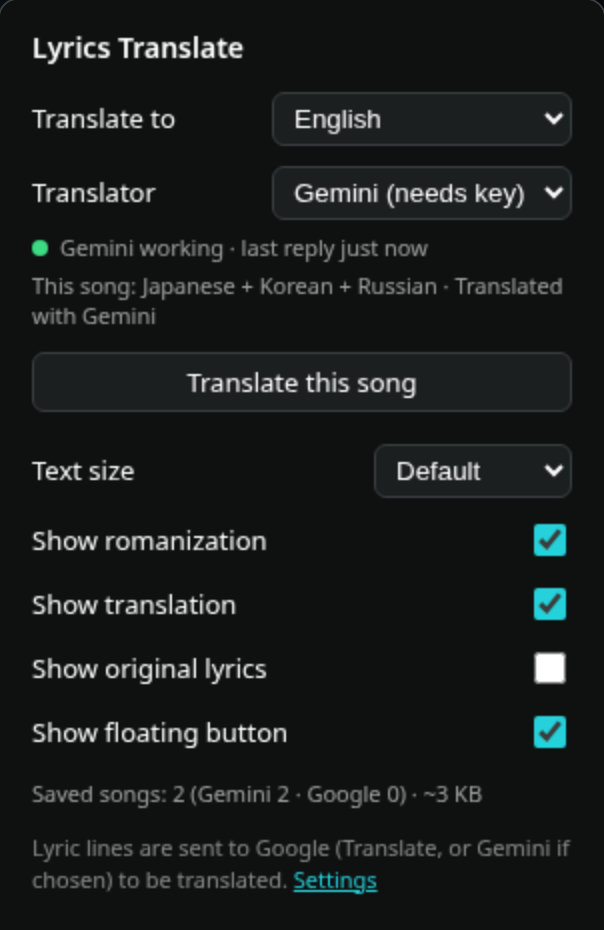
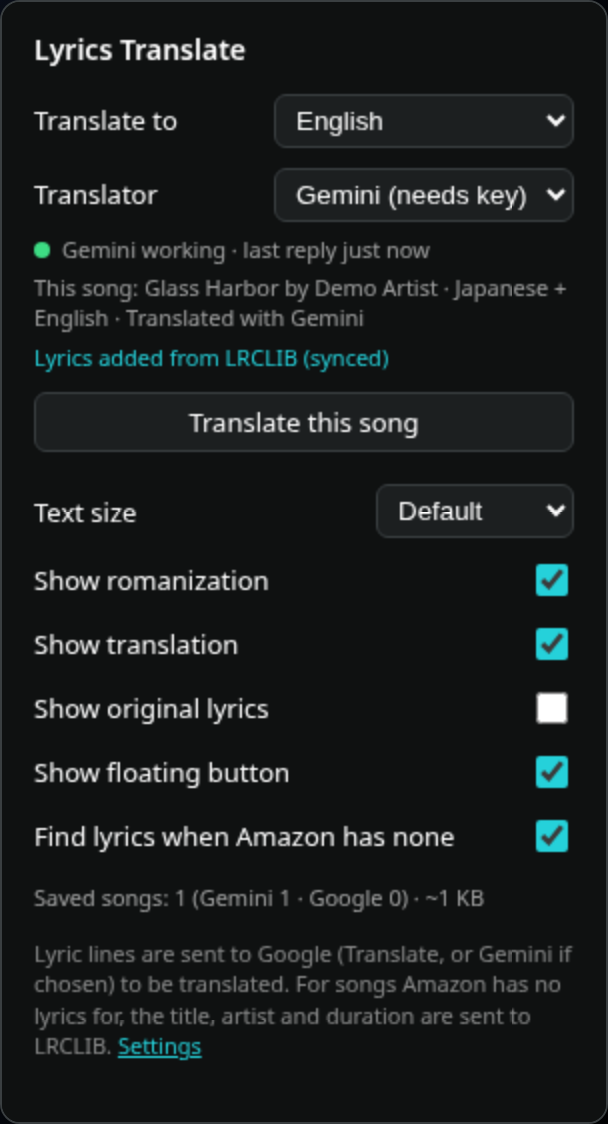
Docs and site for 1.3: LRCLIB lyrics for songs Amazon doesn't have, smarter language check
- Site: 'New in 1.3' pill, feature card and screenshot section for LRCLIB lyrics in the full view (synced highlight),
  'Smarter language check' card, What's new section (1.3.0-1.3.3), refreshed popup screenshot with the new toggle,
  privacy cards incl. LRCLIB, Chrome note for Load unpacked, mobile header/pill fixes.
- New screenshot docs/img/6-lrclib-fullview.png rendered from the local mock with invented lyrics only.
- README: LRCLIB intro and screenshot, Changelog section, Chrome load-unpacked note, privacy wording.
- PRIVACY.md / privacy.html: last updated September 28, 2026; LRCLIB receives only title, artist and duration,
  no personal data, can be switched off; LRCLIB lyrics are translated like Amazon's; table scrolls on mobile.

diff --git a/docs/index.html b/docs/index.html
@@ -4,7 +4,7 @@
 <meta charset="utf-8">
 <meta name="viewport" content="width=device-width, initial-scale=1">
 <title>Lyrics Translate &amp; Romanize for Amazon Music: Microsoft Edge extension</title>
-<meta name="description" content="A free Microsoft Edge extension that translates the lyrics in the Amazon Music web player and adds romanization for non-Latin scripts. Not affiliated with Amazon.">
+<meta name="description" content="A free Microsoft Edge extension that translates the lyrics in the Amazon Music web player and adds romanization for non-Latin scripts. For songs Amazon has no lyrics for, it can show synced lyrics from LRCLIB. Not affiliated with Amazon.">
 <link rel="icon" href="img/icon.png">
 <link rel="stylesheet" href="style.css">
 </head>
@@ -14,6 +14,7 @@
     <a class="brand" href="#"><img src="img/icon.png" alt="">Lyrics Translate</a>
     <nav>
       <a href="#features">Features</a>
+      <a href="#new" class="hide-s">What's new</a>
       <a href="#popup" class="hide-s">Popup</a>
       <a href="#privacy" class="hide-s">Privacy</a>
       <a href="#install">Install</a>
@@ -24,8 +25,9 @@
 
 <div class="hero">
   <div class="wrap">
+    <a class="pill" href="#lyrics-when-amazon-has-none"><b>New in 1.3</b> Lyrics for songs Amazon doesn't have &rarr;</a>
     <h1>Every lyric in <span>your language</span>,<br>in any script</h1>
-    <p class="lead">Lyrics Translate &amp; Romanize for Amazon Music is a free Microsoft Edge extension. It translates the lyrics in the Amazon Music web player (music.amazon.com) as they scroll, and adds an easy-to-read romanization under lines written in Japanese, Korean, Chinese, Cyrillic, Arabic, Hindi, Thai, Greek, Hebrew and other non-Latin scripts.</p>
+    <p class="lead">Lyrics Translate &amp; Romanize for Amazon Music is a free Microsoft Edge extension. It translates the lyrics in the Amazon Music web player (music.amazon.com) as they scroll, and adds an easy-to-read romanization under lines written in Japanese, Korean, Chinese, Cyrillic, Arabic, Hindi, Thai, Greek, Hebrew and other non-Latin scripts. And when Amazon has no lyrics for a song, it finds synced lyrics on LRCLIB and shows them in the full view, right where Amazon's own lyrics would be.</p>
     <div class="buttons">
       <a class="btn primary" href="https://microsoftedge.microsoft.com/addons/detail/lyrics-translate-romanize-for-amazon-music/jjfhmmdjbkcamelimddcogoopaljflff">Get it on Microsoft Edge Add-ons</a>
       <a class="btn" href="https://github.com/NoodlesNom/lyrics-translate-for-amazon-music/releases/latest">Download ZIP (load unpacked)</a>
@@ -41,6 +43,8 @@
     <h2>Features</h2>
     <p class="sub">Everything happens inside the lyrics view you already use. Open a song's lyrics in the Amazon Music web player and the extension does the rest.</p>
     <div class="grid">
+      <div class="card new"><div class="icon">♪</div><span class="tag">New in 1.3</span><h3>Lyrics for songs Amazon doesn't have</h3>
+        <p>No lyrics on Amazon? The extension looks the song up on <a href="https://lrclib.net">LRCLIB</a>, a free, open lyrics database, and shows the lyrics in Amazon's full view, in the same spot and style as Amazon's own, with the current line highlighted as the song plays. Translated and romanized too.</p></div>
       <div class="card"><div class="icon">G</div><h3>Gemini or Google Translate</h3>
         <p>Use the free Google Translate web service with no key or account, or paste your own free Gemini API key for natural translations that use the whole song as context. The key is saved only in your browser.</p></div>
       <div class="card"><div class="icon">⇄</div><h3>Automatic fallback</h3>
@@ -53,28 +57,52 @@
         <p>A small round button in the top-right corner of the player opens the popup as a panel right on the page. Click outside it or press <kbd>Esc</kbd> to close it, or hide the button in the popup.</p></div>
       <div class="card"><div class="icon">⟳</div><h3>Per-song cache</h3>
         <p>Results are saved per song, translator and language: up to 2000 songs (400 lines each). Replays are instant and make no requests. When the cache is full, the least recently played songs are removed first.</p></div>
-      <div class="card"><div class="icon">✓</div><h3>Skips songs already in your language</h3>
-        <p>Lines already in your target language stay as they are. A Latin-script song is language-checked with Google first, so an English song with English selected never uses your Gemini quota, now or on replays.</p></div>
+      <div class="card"><div class="icon">✓</div><span class="tag">Improved in 1.3</span><h3>Smarter language check</h3>
+        <p>Songs already in your language are left alone and never go to Gemini, even if the lyrics contain symbols, emoji or a stray look-alike letter from another alphabet. A mostly English song with a few lines in another language only gets those few lines translated.</p></div>
       <div class="card"><div class="icon">↻</div><h3>"Translate this song"</h3>
         <p>If a mixed-language song was left partly untranslated, one click translates the whole song again with the selected translator and remembers not to skip it next time.</p></div>
       <div class="card"><div class="icon">A+</div><h3>Text size</h3>
         <p>Scale all the lyric text the extension shows from 85% to 145% (Small, Default, Large, Extra large) without zooming the rest of the player, so auto-scrolling keeps working.</p></div>
     </div>
 
-    <div class="split">
+    <div class="split" id="lyrics-when-amazon-has-none">
+      <div class="media"><img src="img/6-lrclib-fullview.png" width="1280" height="720" alt="A full-screen player on a demo page: album art on the left, and on the right synced lyrics from LRCLIB with the current line highlighted in white, each invented Japanese line shown as an English translation with romaji underneath."></div>
+      <div><span class="tag">New in 1.3</span><h3>Lyrics for songs Amazon doesn't have</h3>
+        <p>Some songs have no lyrics on Amazon Music. When that happens, the extension finds <b>synced lyrics</b> on <a href="https://lrclib.net">LRCLIB</a> and shows them in the <b>full view</b>, in the same place and style as Amazon's own lyrics.</p>
+        <ul class="ticks">
+          <li>The current line is highlighted and follows playback, seeks and pauses.</li>
+          <li>Translation and romanization work just like on Amazon's lyrics.</li>
+          <li>The popup's <b>This song</b> line shows the title, artist and where the lyrics came from.</li>
+          <li>Only the song's title, artist and duration are sent to lrclib.net. Turn it off anytime with <b>Find lyrics when Amazon has none</b>.</li>
+        </ul></div>
+    </div>
+    <div class="split rev">
       <div class="media"><img src="img/2-romanization.png" width="1280" height="800" alt="Invented Japanese lyric lines shown with romaji underneath and an English translation, at the Large text size."></div>
       <div><h3>Read along in any script</h3>
         <p>Can't read the script? Follow the romanization line as the song plays. Here three invented Japanese lines keep the original as the main line, with romaji and the English translation underneath, at the <b>Large</b> text size.</p></div>
     </div>
-    <div class="split rev">
+    <div class="split">
       <div class="media"><img src="img/5-original-toggle.png" width="1280" height="800" alt="Invented Chinese, Greek, Hebrew and Thai lines with the original shown as the main line and romanization plus translation underneath."></div>
       <div><h3>Original lyrics, when you want them</h3>
         <p>With <b>Original lyrics</b> on, the original stays the big line. Songs that mix scripts are handled line by line: each line gets its own romanization and translation, and lines already in your language are left alone.</p></div>
     </div>
-    <div class="split">
+    <div class="split rev">
       <div class="media"><img src="img/4-floating-panel.png" width="1280" height="800" alt="The floating button in the top-right corner has opened the settings panel on the page, next to translated demo lyrics."></div>
       <div><h3>Settings without leaving the player</h3>
         <p>The floating button opens the full popup as an in-page panel, handy in full-screen or when the toolbar is hidden. It's the same popup, with the same live status lines.</p></div>
+    </div>
+  </div>
+</section>
+
+<section id="new">
+  <div class="wrap">
+    <h2>What's new</h2>
+    <p class="sub">Recent versions, newest first. Full history and downloads in the <a href="https://github.com/NoodlesNom/lyrics-translate-for-amazon-music/releases">releases</a>.</p>
+    <div class="changelog">
+      <div class="card"><h3>1.3.3</h3><p>Smarter language check: songs already in your language never go to Gemini, even with look-alike characters, and mostly English songs only get their few foreign lines translated.</p></div>
+      <div class="card"><h3>1.3.2</h3><p>Lyrics from LRCLIB now appear in Amazon's full view, in the same spot and style as Amazon's own lyrics, with the current line highlighted.</p></div>
+      <div class="card"><h3>1.3.1</h3><p>More reliable detection of songs Amazon has no lyrics for, using the player bar's "Lyrics available" badge.</p></div>
+      <div class="card"><h3>1.3.0</h3><p>New: synced lyrics from LRCLIB for songs Amazon has no lyrics for, translated and romanized, following playback, seeks and pauses. Popup toggle <b>Find lyrics when Amazon has none</b> (on by default).</p></div>
     </div>
   </div>
 </section>
@@ -84,15 +112,15 @@
     <h2>The popup</h2>
     <p class="sub">Click the toolbar icon (or the floating button). Changes apply immediately to the open lyrics.</p>
     <div class="popup-wrap">
-      <div class="popup-img"><img src="img/popup.png" width="604" height="1000" alt="The extension popup: target language, translator, Gemini status, this song's status, Translate this song button, text size, toggles and the saved-songs counter."></div>
+      <div class="popup-img"><img src="img/popup.png" width="608" height="1124" alt="The extension popup: target language, translator, Gemini status, this song's title, artist and status, a note that the lyrics were added from LRCLIB, the Translate this song button, text size, toggles including Find lyrics when Amazon has none, and the saved-songs counter."></div>
       <dl class="controls">
         <dt>Translate to</dt><dd>Target language: 23 languages, including English, Spanish, French, German, Japanese, Korean, Chinese (Simplified and Traditional), Arabic, Hindi and more.</dd>
         <dt>Translator</dt><dd><b>Gemini (needs key)</b> or <b>Google Translate</b>. Gemini is picked automatically once you save a key.</dd>
         <dt>Gemini status dot</dt><dd><span class="dot g"></span>Gemini working, last reply 2 min ago · <span class="dot a"></span>Using Google (quota hit, timed out, error or unexpected reply) · <span class="dot r"></span>Invalid key · <span class="dot n"></span>No key, not used yet, or Google selected.</dd>
-        <dt>This song</dt><dd>The current song's detected language(s) and state, for example "Japanese + English · Translated with Gemini (from cache)", "English · Already in English, no translation needed" or "Translating…".</dd>
+        <dt>This song</dt><dd>The current song's title and artist, its detected language(s) and state, for example "Japanese + English · Translated with Gemini (from cache)", "English · Already in English, no translation needed" or "Translating…". For songs Amazon has no lyrics for, a second line says where the lyrics came from: "Lyrics added from LRCLIB (synced)", or "Amazon has no lyrics; none found on LRCLIB".</dd>
         <dt>Translate this song</dt><dd>Translates the open song again with the selected translator and stops it being skipped.</dd>
         <dt>Text size</dt><dd>Small (85%), Default, Large (120%) or Extra large (145%).</dd>
-        <dt>Toggles</dt><dd>Show romanization, Show translation, Show original lyrics, Show floating button, Find lyrics when Amazon has none.</dd>
+        <dt>Toggles</dt><dd>Show romanization, Show translation, Show original lyrics, Show floating button, and <b>Find lyrics when Amazon has none</b> (on by default; turn it off and nothing is ever sent to LRCLIB).</dd>
         <dt>Saved songs</dt><dd>For example "Saved songs: 12 (Gemini 8 · Google 6) · ~0.3 MB": how many songs are cached, how many are fully translated by each translator, and roughly how much storage is used.</dd>
         <dt>Settings</dt><dd>Opens the settings page, where you save, test or remove your Gemini key.</dd>
       </dl>
@@ -115,10 +143,11 @@
 <section id="privacy">
   <div class="wrap">
     <h2>Privacy</h2>
-    <div class="grid">
+    <div class="grid four">
       <div class="card"><h3>No data collection</h3><p>The developer collects nothing. There are no analytics, no trackers, no accounts and no servers of our own.</p></div>
-      <div class="card"><h3>What is sent, and where</h3><p>Only the lyric lines on screen are sent to Google Translate, and to Google Gemini if you added your own key, only to translate or romanize them. For songs Amazon has no lyrics for, the title, artist and duration are sent to LRCLIB (lrclib.net) to find lyrics. No cookies, song history or other data.</p></div>
-      <div class="card"><h3>Stored in your browser</h3><p>Your Gemini key and the translation cache stay in local extension storage; your settings are in sync storage. Removing the extension clears them.</p></div>
+      <div class="card"><h3>What is sent, and where</h3><p>Only the lyric lines on screen are sent to Google Translate, and to Google Gemini if you added your own key, only to translate or romanize them. No cookies, song history or other data.</p></div>
+      <div class="card"><h3>LRCLIB, only when needed</h3><p>Only for songs Amazon has no lyrics for, the song's title, artist and duration are sent to <a href="https://lrclib.net">lrclib.net</a> to find lyrics. No personal data, no account. Switch it off with <b>Find lyrics when Amazon has none</b>.</p></div>
+      <div class="card"><h3>Stored in your browser</h3><p>Your Gemini key, the translation cache and the LRCLIB lyrics cache stay in local extension storage; your settings are in sync storage. Removing the extension clears them.</p></div>
     </div>
     <p style="margin-top:20px"><a href="privacy.html">Read the full privacy policy</a></p>
   </div>
@@ -131,10 +160,10 @@
       <div class="card"><h3>From Microsoft Edge Add-ons</h3>
         <p>The easiest way: install it from the official store with one click, and Edge keeps it updated automatically.</p>
         <p style="margin-top:14px"><a class="btn primary" href="https://microsoftedge.microsoft.com/addons/detail/lyrics-translate-romanize-for-amazon-music/jjfhmmdjbkcamelimddcogoopaljflff">Get it on Microsoft Edge Add-ons</a></p></div>
-      <div class="card"><h3>Load unpacked (alternative)</h3>
+      <div class="card"><h3>Load unpacked (Chrome and other browsers)</h3>
         <ol class="steps">
           <li>Download the ZIP from the <a href="https://github.com/NoodlesNom/lyrics-translate-for-amazon-music/releases/latest">latest release</a> and unzip it (or clone the repo and use its <code>extension</code> folder).</li>
-          <li>Open <code>edge://extensions</code>.</li>
+          <li>Open <code>edge://extensions</code> (in Chrome: <code>chrome://extensions</code>).</li>
           <li>Turn on <b>Developer mode</b>.</li>
           <li>Click <b>Load unpacked</b> and pick the folder that contains <code>manifest.json</code>.</li>
           <li>Open <a href="https://music.amazon.com">music.amazon.com</a>, play a song and open the lyrics view.</li>
@@ -146,7 +175,7 @@
 
 <section>
   <div class="wrap">
-    <p class="disclaimer"><b>Not affiliated with Amazon.</b> This is an independent, unofficial extension. It is not made, endorsed or supported by Amazon. Amazon Music is a trademark of Amazon.com, Inc. or its affiliates. Google Translate and Gemini are trademarks of Google LLC.</p>
+    <p class="disclaimer"><b>Not affiliated with Amazon.</b> This is an independent, unofficial extension. It is not made, endorsed or supported by Amazon. Amazon Music is a trademark of Amazon.com, Inc. or its affiliates. Google Translate and Gemini are trademarks of Google LLC. Lyrics for songs Amazon has none for come from LRCLIB, an independent community project.</p>
   </div>
 </section>
 

diff --git a/docs/privacy.html b/docs/privacy.html
@@ -18,15 +18,15 @@
 </header>
 <main class="doc">
   <h1>Privacy Policy</h1>
-  <p class="note">Lyrics Translate &amp; Romanize for Amazon Music · Effective date: September 28, 2026</p>
+  <p class="note">Lyrics Translate &amp; Romanize for Amazon Music · Effective date: September 28, 2026 · Last updated: September 28, 2026</p>
   <p>This policy covers the Microsoft Edge extension "Lyrics Translate &amp; Romanize for Amazon Music" (the "extension"), published by NoodlesNom. The extension is not affiliated with Amazon.</p>
 
   <h2>Summary</h2>
   <ul>
     <li><b>The developer collects no data.</b> There are no analytics, no trackers, no advertising, no accounts and no servers run by the developer. Nothing is ever sent to the developer.</li>
     <li><b>Lyric lines are sent to Google only to translate or romanize them.</b> The lyric lines shown on screen in the Amazon Music web player go to Google Translate, and to Google Gemini if you added your own API key.</li>
-    <li><b>For songs Amazon has no lyrics for, the song's title, artist and duration are sent to LRCLIB</b> (lrclib.net), a free lyrics database, to find lyrics for them. You can turn this off in the popup ("Find lyrics when Amazon has none").</li>
-    <li><b>Everything else stays in your browser.</b> Your Gemini key and the translation cache are kept in the extension's local storage, and your settings in the extension's sync storage. Removing the extension clears them.</li>
+    <li><b>For songs Amazon has no lyrics for, the song's title, artist and duration are sent to LRCLIB</b> (lrclib.net), a free, open lyrics database that needs no account or key, to find lyrics for them. Nothing else is sent to LRCLIB: no personal data, no cookies, no account or listening history. This is on by default and you can turn it off in the popup ("Find lyrics when Amazon has none"); when it's off, nothing is ever sent to LRCLIB.</li>
+    <li><b>Everything else stays in your browser.</b> Your Gemini key, the translation cache and the LRCLIB lyrics cache are kept in the extension's local storage, and your settings in the extension's sync storage. Removing the extension clears them.</li>
   </ul>
 
   <h2>What the extension reads</h2>
@@ -39,13 +39,13 @@
   <p>It does not read cookies, your account, your listening history, or any other site.</p>
 
   <h2>What is sent, to whom, and why</h2>
-  <table>
+  <div class="table-wrap"><table>
     <tr><th>Recipient</th><th>What is sent</th><th>When</th><th>Why</th></tr>
     <tr><td>Google Translate (<code>clients5.google.com</code>, fallback <code>translate.googleapis.com</code>)</td><td>The lyric lines on screen and the target language code</td><td>When a song's lyrics are shown and aren't in the cache yet</td><td>To translate the lines, detect their language and romanize non-Latin lines</td></tr>
     <tr><td>Google Gemini API (<code>generativelanguage.googleapis.com</code>)</td><td>The song's lyric lines, the target language, and <b>your own</b> API key (in a request header)</td><td>Only if you saved a Gemini key and Gemini is selected, and the song isn't already in your target language</td><td>To translate the lines</td></tr>
     <tr><td>LRCLIB (<code>lrclib.net</code>)</td><td>The song's <b>title, artist and duration</b> (in seconds), plus a header naming the extension (<code>Lrclib-Client</code>)</td><td>Only when Amazon Music shows no lyrics for the song, "Find lyrics when Amazon has none" is on (default), and the song isn't already in the cache</td><td>To find the song's lyrics (synced if available)</td></tr>
-  </table>
-  <p>Requests are made without cookies. Apart from the title, artist and duration sent to LRCLIB as described above, no song titles, artist names, history, identifiers or other personal data are sent. LRCLIB is an independent third-party service; see <a href="https://lrclib.net">lrclib.net</a>. Google processes its requests under its own terms and privacy policy (<a href="https://policies.google.com/privacy">Google Privacy Policy</a>, <a href="https://ai.google.dev/gemini-api/terms">Gemini API Additional Terms</a>). On Gemini's free tier, Google may use submitted content to improve its products.</p>
+  </table></div>
+  <p>Requests are made without cookies. Apart from the title, artist and duration sent to LRCLIB as described above, no song titles, artist names, history, identifiers or other personal data are sent. Lyrics found on LRCLIB are shown in Amazon's full view and, like Amazon's own lyrics, their lines are sent to Google Translate (or Gemini) only to translate or romanize them. LRCLIB is an independent third-party service; see <a href="https://lrclib.net">lrclib.net</a>. Google processes its requests under its own terms and privacy policy (<a href="https://policies.google.com/privacy">Google Privacy Policy</a>, <a href="https://ai.google.dev/gemini-api/terms">Gemini API Additional Terms</a>). On Gemini's free tier, Google may use submitted content to improve its products.</p>
 
   <h2>What is stored, and where</h2>
   <p>All storage is the browser's own extension storage (<code>chrome.storage</code>). The developer can't access it.</p>

diff --git a/docs/style.css b/docs/style.css
@@ -56,10 +56,30 @@ footer a { color: var(--muted); }
 .doc h1 { font-size: 36px; margin: 0 0 6px; }
 .doc h2 { font-size: 22px; margin: 34px 0 8px; }
 .doc p, .doc li { color: #cdd6da; }
+.pill { display: inline-flex; align-items: center; gap: 8px; margin-bottom: 20px; padding: 5px 14px 5px 5px; border-radius: 999px; border: 1px solid rgba(37, 209, 218, .35); background: rgba(37, 209, 218, .08); color: var(--text); text-decoration: none; font-size: 14px; }
+.pill b { white-space: nowrap; flex: none; background: var(--accent); color: #062326; border-radius: 999px; padding: 2px 10px; font-size: 12px; }
+.pill:hover { border-color: var(--accent); }
+.tag { display: inline-block; vertical-align: middle; margin-left: 6px; padding: 1px 8px; border-radius: 999px; background: rgba(37, 209, 218, .16); color: var(--accent); font-size: 11px; font-weight: 700; letter-spacing: .04em; text-transform: uppercase; }
+.split .tag { margin: 0 0 10px; }
+.card { position: relative; }
+.card .icon + .tag { position: absolute; top: 28px; right: 22px; margin: 0; }
+.grid > .card.new { grid-column: 1 / -1; }
+.grid.four { grid-template-columns: repeat(auto-fit, minmax(230px, 1fr)); }
+.doc .table-wrap { overflow-x: auto; }
+.card.new { border-color: rgba(37, 209, 218, .45); background: linear-gradient(160deg, rgba(37, 209, 218, .10), var(--panel) 60%); }
+ul.ticks { list-style: none; padding: 0; margin: 14px 0 0; }
+ul.ticks li { position: relative; padding-left: 26px; margin: 8px 0; }
+ul.ticks li::before { content: "✓"; position: absolute; left: 0; top: 0; color: var(--accent); font-weight: 700; }
+.changelog { display: grid; grid-template-columns: repeat(auto-fit, minmax(240px, 1fr)); gap: 18px; }
+.changelog .card h3 { font-size: 20px; }
 @media (max-width: 860px) {
   .split, .split.rev, .popup-wrap { grid-template-columns: 1fr; }
   .split.rev .media { order: 0; }
   dl.controls { grid-template-columns: 1fr; gap: 2px; } dl.controls dd { margin-bottom: 10px; }
   nav a { margin-left: 12px; }
 }
-@media (max-width: 560px) { nav a.hide-s { display: none; } }
+@media (max-width: 560px) {
+  nav a.hide-s { display: none; }
+  .brand { white-space: nowrap; } nav { white-space: nowrap; } nav a { margin-left: 10px; font-size: 14px; }
+  .pill { font-size: 12px; border-radius: 16px; }
+}

diff --git a/README.md b/README.md
@@ -1,6 +1,6 @@
 # Lyrics Translate & Romanize for Amazon Music
 
-A free Microsoft Edge extension (Manifest V3, plain JS/HTML/CSS) that translates the lyrics in the Amazon Music web player ([music.amazon.com](https://music.amazon.com)) and adds romanization for non-Latin scripts.
+A free Microsoft Edge extension (Manifest V3, plain JS/HTML/CSS) that translates the lyrics in the Amazon Music web player ([music.amazon.com](https://music.amazon.com)) and adds romanization for non-Latin scripts. When Amazon has no lyrics for a song, it finds synced lyrics on [LRCLIB](https://lrclib.net) and shows them in Amazon's full view.
 
 > **Not affiliated with Amazon.** This is an independent, unofficial extension. It is not made, endorsed or supported by Amazon. Amazon Music is a trademark of Amazon.com, Inc. or its affiliates.
 
@@ -21,16 +21,30 @@ A free Microsoft Edge extension (Manifest V3, plain JS/HTML/CSS) that translates
 - **Skips songs already in your language**, so an English song with English selected never uses your Gemini quota. Since 1.3.3 this also holds when the lyrics contain symbols or a stray look-alike letter (e.g. a Cyrillic "е" typed into an English word), and a mostly English song with a few lines in another script (e.g. a Japanese phrase) only sends those lines to the translator.
 - **Lyrics when Amazon has none (new in 1.3.0):** if Amazon Music has no lyrics for the current song (no "LYRICS" badge next to the title in the player bar, and an empty lyrics area in the full view), they're looked up on [LRCLIB](https://lrclib.net) (free, open lyrics database) and shown in Amazon's full view, right where Amazon's own lyrics would appear and styled like them (since 1.3.2), with the current line highlighted in sync with playback, translated and romanized like Amazon's own lyrics. The popup shows "Lyrics added from LRCLIB (synced/unsynced)" (with "· open the full view to see them" while it's closed) or "Amazon has no lyrics; none found on LRCLIB". Only close matches (same title and artist, duration within 3 s) are used. Toggle: **Find lyrics when Amazon has none** (on by default).
 
+![Synced lyrics from LRCLIB in the full view of a demo page, with invented lines](docs/img/6-lrclib-fullview.png)
+
 ## Install
 
 - **Microsoft Edge Add-ons (recommended):** [install from the store](https://microsoftedge.microsoft.com/addons/detail/lyrics-translate-romanize-for-amazon-music/jjfhmmdjbkcamelimddcogoopaljflff).
-- **Load unpacked:** download the ZIP from the [latest release](https://github.com/NoodlesNom/lyrics-translate-for-amazon-music/releases/latest) (or clone this repo), open `edge://extensions`, turn on **Developer mode**, click **Load unpacked** and select the folder that contains `manifest.json` (the [`extension`](extension) folder in this repo).
+- **Load unpacked:** download the ZIP from the [latest release](https://github.com/NoodlesNom/lyrics-translate-for-amazon-music/releases/latest) (or clone this repo), open `edge://extensions`, turn on **Developer mode**, click **Load unpacked** and select the folder that contains `manifest.json` (the [`extension`](extension) folder in this repo). The same works in Chrome and other Chromium browsers at `chrome://extensions`.
 
 Full usage notes, the Gemini setup and known limits are in [extension/README.md](extension/README.md).
 
 ## Privacy
 
-The developer collects no data and there are no analytics. The lyric lines on screen are sent to Google Translate, and to Google Gemini if you added your own key, only to translate or romanize them. For songs Amazon has no lyrics for, the song's **title, artist and duration are sent to LRCLIB (lrclib.net)** to find lyrics (turn this off with **Find lyrics when Amazon has none**). The key is stored only in `chrome.storage.local`, settings in `chrome.storage.sync` and the cache in `chrome.storage.local`; removing the extension clears them. See [PRIVACY.md](PRIVACY.md).
+The developer collects no data and there are no analytics. The lyric lines on screen are sent to Google Translate, and to Google Gemini if you added your own key, only to translate or romanize them. For songs Amazon has no lyrics for, the song's **title, artist and duration are sent to LRCLIB (lrclib.net)** to find lyrics; nothing else, no personal data, no cookies (turn this off with **Find lyrics when Amazon has none**). The key is stored only in `chrome.storage.local`, settings in `chrome.storage.sync` and the translation and LRCLIB caches in `chrome.storage.local`; removing the extension clears them. See [PRIVACY.md](PRIVACY.md).
+
+## Changelog
+
+Newest first.
+
+- **1.3.3:** smarter language check. Songs already in your language never go to Gemini, even with symbols, emoji or a look-alike letter from another alphabet; a mostly English song with a few foreign lines only gets those lines translated. The popup says e.g. "Mostly English · translated 2 lines with Gemini".
+- **1.3.2:** LRCLIB lyrics are shown in Amazon's full view, in the spot and style of Amazon's own lyrics (white current line, dim other lines), with a small "Lyrics from LRCLIB" credit.
+- **1.3.1:** reliable detection of songs without Amazon lyrics (the player bar's "Lyrics available" badge) and the song's title/artist in the popup's "This song" line.
+- **1.3.0:** synced lyrics from [LRCLIB](https://lrclib.net) for songs Amazon has no lyrics for, following playback, seeks and pauses, translated and romanized. New toggle **Find lyrics when Amazon has none** (on by default); only new permission `https://lrclib.net/*`.
+- **1.2.4:** first release: translation and romanization with Google Translate or your own Gemini key, per-song cache, floating button.
+
+Downloads: [GitHub releases](https://github.com/NoodlesNom/lyrics-translate-for-amazon-music/releases).
 
 ## Permissions
 

diff --git a/PRIVACY.md b/PRIVACY.md
@@ -1,6 +1,6 @@
 # Privacy Policy: Lyrics Translate & Romanize for Amazon Music
 
-_Effective date: September 28, 2026_
+_Effective date: September 28, 2026 · Last updated: September 28, 2026_
 
 This policy covers the Microsoft Edge extension "Lyrics Translate & Romanize for Amazon Music" (the "extension"), published by NoodlesNom. The extension is not affiliated with Amazon.
 
@@ -8,8 +8,8 @@ This policy covers the Microsoft Edge extension "Lyrics Translate & Romanize for
 
 - **The developer collects no data.** There are no analytics, no trackers, no advertising, no accounts and no servers run by the developer. Nothing is ever sent to the developer.
 - **Lyric lines are sent to Google only to translate or romanize them.** The lyric lines shown on screen in the Amazon Music web player go to Google Translate, and to Google Gemini if you added your own API key.
-- **For songs Amazon has no lyrics for, the song's title, artist and duration are sent to LRCLIB** (lrclib.net), a free lyrics database, to find lyrics for them. You can turn this off in the popup ("Find lyrics when Amazon has none").
-- **Everything else stays in your browser.** Your Gemini key and the translation cache are kept in the extension's local storage, and your settings in the extension's sync storage. Removing the extension clears them.
+- **For songs Amazon has no lyrics for, the song's title, artist and duration are sent to LRCLIB** (lrclib.net), a free, open lyrics database that needs no account or key, to find lyrics for them. Nothing else is sent to LRCLIB: no personal data, no cookies, no account or listening history. This is on by default and you can turn it off in the popup ("Find lyrics when Amazon has none"); when it's off, nothing is ever sent to LRCLIB.
+- **Everything else stays in your browser.** Your Gemini key, the translation cache and the LRCLIB lyrics cache are kept in the extension's local storage, and your settings in the extension's sync storage. Removing the extension clears them.
 
 ## What the extension reads
 
@@ -29,7 +29,7 @@ It does not read cookies, your account, your listening history, or any other sit
 | Google Gemini API (`generativelanguage.googleapis.com`) | The song's lyric lines, the target language, and **your own** API key (in a request header) | Only if you saved a Gemini key and Gemini is selected, and the song isn't already in your target language | To translate the lines |
 | LRCLIB (`lrclib.net`) | The song's **title, artist and duration** (in seconds), plus a header naming the extension (`Lrclib-Client`) | Only when Amazon Music shows no lyrics for the song, "Find lyrics when Amazon has none" is on (default), and the song isn't already in the cache | To find the song's lyrics (synced if available) |
 
-Requests are made without cookies (`credentials: omit`). Apart from the title, artist and duration sent to LRCLIB as described above, no song titles, artist names, history, identifiers or other personal data are sent. LRCLIB is an independent third-party service; see [lrclib.net](https://lrclib.net). Google processes its requests under its own terms and privacy policy ([Google Privacy Policy](https://policies.google.com/privacy), [Gemini API Additional Terms](https://ai.google.dev/gemini-api/terms)). On Gemini's free tier, Google may use submitted content to improve its products.
+Requests are made without cookies (`credentials: omit`). Apart from the title, artist and duration sent to LRCLIB as described above, no song titles, artist names, history, identifiers or other personal data are sent. Lyrics found on LRCLIB are shown in Amazon's full view and, like Amazon's own lyrics, their lines are sent to Google Translate (or Gemini) only to translate or romanize them. LRCLIB is an independent third-party service; see [lrclib.net](https://lrclib.net). Google processes its requests under its own terms and privacy policy ([Google Privacy Policy](https://policies.google.com/privacy), [Gemini API Additional Terms](https://ai.google.dev/gemini-api/terms)). On Gemini's free tier, Google may use submitted content to improve its products.
 
 ## What is stored, and where
 
